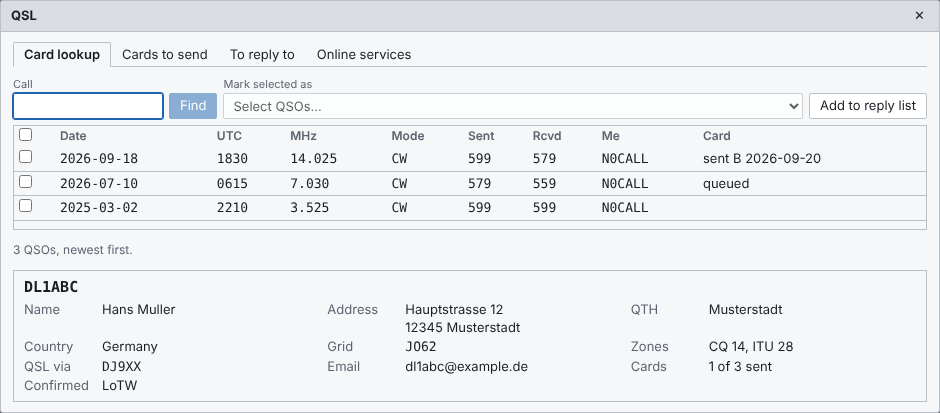
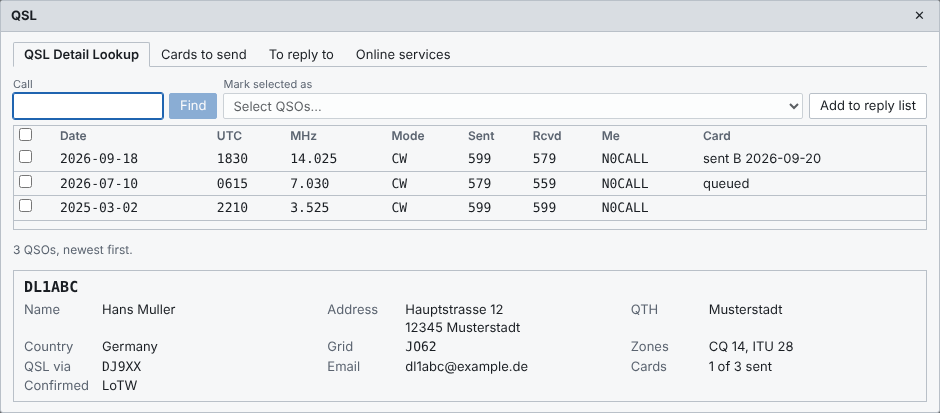
Call it QSL Detail Lookup
Claude-Session: https://claude.ai/code/session_011zdL693BayuAVHrNvsygtV

Changed region(s): [[0.0309, 0.1162, 0.4936, 0.1453]]

diff --git a/ui/e2e/smoke.spec.ts b/ui/e2e/smoke.spec.ts
@@ -307,8 +307,8 @@ test("first run, log, import, search, edit and export", async ({ page }) => {
   await expect(page.getByText("Nothing waiting for a reply.")).toBeVisible();
   await page.getByRole("button", { name: "Close" }).click();
 
-  // Card lookup: type a call, Enter, results with the queued card.
-  await fromMenu(page, /^Card lookup/);
+  // QSL Detail Lookup: type a call, Enter, results with the queued card.
+  await fromMenu(page, /^QSL Detail Lookup/);
   const lookup = page.getByRole("dialog", { name: "QSL" });
   await lookup.getByLabel("Call").fill("k1abc");
   await lookup.getByLabel("Call").press("Enter");

diff --git a/ui/src/components/PaperQsl.tsx b/ui/src/components/PaperQsl.tsx
@@ -179,7 +179,7 @@ export default function PaperQsl({ logId }: { logId: number }) {
   return (
     <div className="paper">
       <p className="small muted">
-        Cards waiting: QSOs marked <b>Q</b> (queued) or <b>R</b> (requested) in QSL sent. Queue them on the <b>Card lookup</b> tab, or from the log with <b>Paper QSL…</b>.
+        Cards waiting: QSOs marked <b>Q</b> (queued) or <b>R</b> (requested) in QSL sent. Queue them on the <b>QSL Detail Lookup</b> tab, or from the log with <b>Paper QSL…</b>.
       </p>
       {queue.length === 0 ? (
         <p className="muted">No cards waiting.</p>

diff --git a/ui/src/components/QslDialog.tsx b/ui/src/components/QslDialog.tsx
@@ -79,7 +79,7 @@ type Tab = "lookup" | "cards" | "reply" | "online";
 
 export default function QslDialog(props: Props & { tab?: Tab }) {
   const [tab, setTab] = useState<Tab>(props.tab ?? "lookup");
-  const tabs: [Tab, string][] = [["lookup", "Card lookup"], ["cards", "Cards to send"], ["reply", "To reply to"], ["online", "Online services"]];
+  const tabs: [Tab, string][] = [["lookup", "QSL Detail Lookup"], ["cards", "Cards to send"], ["reply", "To reply to"], ["online", "Online services"]];
   return (
     <Modal title="QSL" onClose={props.onClose} wide>
       <nav className="tabs">

diff --git a/ui/src/shortcutKeys.ts b/ui/src/shortcutKeys.ts
@@ -13,7 +13,7 @@ export interface ShortcutDef {
 
 /** Shortcuts the operator can change. The ids are what is saved, so never reuse one. */
 export const SHORTCUTS: ShortcutDef[] = [
-  { id: "qsllookup", label: "Card lookup", where: "Anywhere", def: "Alt+Q" },
+  { id: "qsllookup", label: "QSL Detail Lookup", where: "Anywhere", def: "Alt+Q" },
   { id: "help", label: "User guide", where: "Anywhere", def: "F1" },
   { id: "settings", label: "Settings", where: "Anywhere", def: null },
   { id: "qsl", label: "QSL: LoTW, QRZ, Club Log", where: "Anywhere", def: null },

diff --git a/ui/e2e/shortcuts.spec.ts b/ui/e2e/shortcuts.spec.ts
@@ -22,7 +22,7 @@ test("the defaults match the keys QRZero always had", () => {
 });
 
 test("conflicts and unsafe keys are refused", () => {
-  expect(problemWith("Alt+Q", {}, "settings")).toMatch(/Card lookup/);
+  expect(problemWith("Alt+Q", {}, "settings")).toMatch(/QSL Detail Lookup/);
   expect(problemWith("Alt+Q", {}, "qsllookup")).toBeNull();
   expect(problemWith("Alt+Q", { qsllookup: null }, "settings")).toBeNull();
   expect(problemWith("Q", {}, "settings")).toMatch(/Ctrl or Alt/);

diff --git a/ui/src/components/MainMenu.tsx b/ui/src/components/MainMenu.tsx
@@ -8,7 +8,7 @@ const ITEMS: { id: MenuAction; label: string }[] = [
   { id: "import", label: "Import ADIF…" },
   { id: "export", label: "Export ADIF…" },
   { id: "qsl", label: "QSL: LoTW, QRZ, Club Log…" },
-  { id: "qsllookup", label: "Card lookup…" },
+  { id: "qsllookup", label: "QSL Detail Lookup…" },
   { id: "settings", label: "Settings…" },
   { id: "help", label: "Help" },
 ];

diff --git a/docs/user/10-qsl.md b/docs/user/10-qsl.md
@@ -1,6 +1,6 @@
 # QSL: LoTW, QRZ, Club Log, eQSL and paper cards
 
-Choose **QSL** from the **☰** menu at the right of the top bar. It has four tabs: **Card lookup** (a call's QSOs and contact details), **Cards to send** (your card queue and label printing), **To reply to**, and **Online services**.
+Choose **QSL** from the **☰** menu at the right of the top bar. It has four tabs: **QSL Detail Lookup** (a call's QSOs and contact details), **Cards to send** (your card queue and label printing), **To reply to**, and **Online services**.
 
 Each QSO keeps its upload status in the standard ADIF fields (`LOTW_QSL_SENT`, `QRZCOM_QSO_UPLOAD_STATUS`, `CLUBLOG_QSO_UPLOAD_STATUS`, `EQSL_QSL_SENT` and their dates), so exports and other loggers see what's been sent. Add the **LoTW S**, **eQSL S**, **QRZ**, **Club Log** and **QSL S** (card) columns to the log grid to see them.
 
@@ -93,9 +93,9 @@ Cards arrive in the mail and don't always get answered right away. The **To repl
 - Each row shows the call, the date the card arrived (change it if it was earlier), a note you can type in (direct, via bureau, an address), and the newest QSOs you have with that station.
 - When you've replied, click **Replied**. Pick **Sent via bureau** or **Sent direct** to also mark those QSOs as card sent with today's date, or **Just remove** to only take the call off the list. The entry is deleted; no history is kept.
 
-## Card lookup
+## QSL Detail Lookup
 
-For answering cards or writing them in bulk: pick **Card lookup…** from the **☰** menu, or press **Alt+Q**. This opens the QSL window on the **Card lookup** tab. Type a callsign and press **Enter**. (This searches your own log. Looking a callsign up on QRZ.com is a different thing and happens in the QSO entry form.)
+For answering cards or writing them in bulk: pick **QSL Detail Lookup…** from the **☰** menu, or press **Alt+Q**. This opens the QSL window on the **QSL Detail Lookup** tab. Type a callsign and press **Enter**. (This searches your own log. Looking a callsign up on QRZ.com is a different thing and happens in the QSO entry form.)
 
 The top half lists that station's QSOs, newest first: date, UTC, MHz, mode, the RST you sent and received, your own callsign, and the card status (sent and received, with the bureau or direct route and date, and OQRS if you've asked). The bottom half is the contact card: name, address, QTH, country, grid, zones, QSL via (the manager), email, how many cards you've sent and which services have confirmed. Each comes from the newest QSO that has it filled in, and empty ones are left out.
 

diff --git a/README.md b/README.md
@@ -201,11 +201,11 @@ Choose **QSL: LoTW, QRZ, Club Log…** from the ☰ menu. Each QSO keeps its sta
 - **QRZ Logbook, Club Log and eQSL.** Upload new QSOs on a timer (15 minutes by default) or on demand, per callsign; edited QSOs are sent again. eQSL confirmations can be downloaded, and LoTW and eQSL downloads can run once a day.
 - **Confirmation status.** The QSO editor shows LoTW, card, eQSL, QRZ and Club Log together with a one-line summary, and the log has **LoTW R**, **QSL R**, **QRZ R**, **OQRS** and **Confirmed** columns. Your Club Log OQRS requests are tracked as a reminder.
 - **Paper cards.** Queue cards from the log, print Avery 5160/L7160 or 5163/L7163 address labels (several QSOs with one station share a label), then mark them sent via bureau or direct. Mark received cards the same way.
-- **Card lookup** (☰ menu or <kbd>Alt</kbd>+<kbd>Q</kbd>) is for answering cards in bulk: type a call, press Enter, and see that station's QSOs newest first with the card status, QSL manager and address.
+- **QSL Detail Lookup** (☰ menu or <kbd>Alt</kbd>+<kbd>Q</kbd>) is for answering cards in bulk: type a call, press Enter, and see that station's QSOs newest first with the card status, QSL manager and address.
 
 | | |
 | --- | --- |
-| ![Paper cards](docs/screenshots/qsl-paper.png) | ![Card lookup](docs/screenshots/qsl-lookup.png) |
+| ![Paper cards](docs/screenshots/qsl-paper.png) | ![QSL Detail Lookup](docs/screenshots/qsl-lookup.png) |
 
 ## ADIF import and export
 

diff --git a/docs/user/01-getting-started.md b/docs/user/01-getting-started.md
@@ -72,7 +72,7 @@ Choose **QSL** from the **☰** menu, then the **Online services** tab. Enter yo
 | Move, hide or pop out panes | The **Layout** menu; [Arranging the window](06-layout) |
 | See DX spots | The **Cluster** and **Band map** tabs; [DX cluster](09-cluster), [Band map](13-band-map) |
 | Check what I still need for DXCC, WAS and other awards | The **Awards** tab; [Awards](11-awards) |
-| Find a station's QSOs for a QSL card | **Card lookup…** in the ☰ menu, or Alt+Q |
+| Find a station's QSOs for a QSL card | **QSL Detail Lookup…** in the ☰ menu, or Alt+Q |
 | Send confirmations | **QSL** in the ☰ menu |
 | Back up or restore my log | **Settings → Backups** |
 | Search this guide | The search box at the top of the Help window |

diff --git a/docs/user/05-setup.md b/docs/user/05-setup.md
@@ -109,7 +109,7 @@ The **Keyboard** tab lists the keys QRZero responds to and lets you change them.
 
 | Action | Where | Default |
 | --- | --- | --- |
-| Card lookup | Anywhere | <kbd>Alt</kbd>+<kbd>Q</kbd> |
+| QSL Detail Lookup | Anywhere | <kbd>Alt</kbd>+<kbd>Q</kbd> |
 | User guide | Anywhere | <kbd>F1</kbd> |
 | Settings | Anywhere | none |
 | QSL: LoTW, QRZ, Club Log | Anywhere | none |
